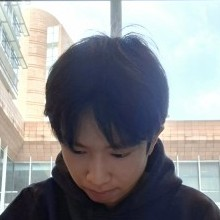
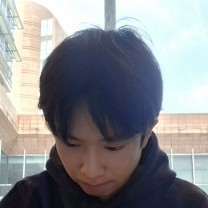
Center Damian's crew portrait crop

Changed region(s): [[0.0, 0.0, 1.0, 0.9808], [0.4904, 0.6923, 0.6058, 0.75], [0.5192, 0.2019, 0.5481, 0.2308]]

diff --git a/src/styles.css b/src/styles.css
@@ -1123,9 +1123,9 @@ body:has(.loading-intro) {
 .crew-card-portrait-wrap { position: absolute; inset: 0; display: grid; place-items: center; overflow: hidden; background: radial-gradient(ellipse at center, #18353a, #07131a 75%); }
 .crew-card-portrait-backdrop { position: absolute; inset: -1rem; inline-size: calc(100% + 2rem); block-size: calc(100% + 2rem); object-fit: cover; filter: blur(1.1rem) brightness(0.4) saturate(0.85); transform: scale(1.04); }
 .crew-card-portrait { position: absolute; z-index: 1; inset: 0; display: block; inline-size: 100%; block-size: 100%; object-fit: cover; object-position: center 35%; }
-.crew-portrait-zoom { position: relative; z-index: 1; display: block; inline-size: 100%; block-size: 100%; min-inline-size: 0; min-block-size: 0; overflow: hidden; padding: 0; border: 0; background: transparent; cursor: zoom-in; }
+.crew-portrait-zoom { position: absolute; z-index: 1; inset: 0; display: block; inline-size: auto; block-size: auto; min-inline-size: 0; min-block-size: 0; overflow: hidden; padding: 0; border: 0; background: transparent; cursor: zoom-in; }
 .crew-portrait-zoom:focus-visible { outline: 0.2rem solid var(--green); outline-offset: -0.3rem; }
-.crew-portrait-header-damian { object-fit: contain; object-position: center; }
+.crew-portrait-header-damian { inset-block: 0; inset-inline: auto; inset-inline-start: 50%; inline-size: auto; block-size: 100%; max-inline-size: 100%; aspect-ratio: 1; object-fit: cover; object-position: center; transform: translateX(-50%); }
 .crew-portrait-zoom-hint { position: absolute; inset-inline-end: 0.7rem; inset-block-end: 0.7rem; padding: 0.35rem 0.6rem; border: 0.0625rem solid rgba(69, 232, 93, 0.65); border-radius: 999rem; background: rgba(4, 10, 16, 0.86); color: var(--white); font-size: 0.75rem; font-weight: 700; opacity: 0; transform: translateY(0.25rem); transition: opacity 180ms ease, transform 180ms ease; }
 .crew-portrait-zoom:hover .crew-portrait-zoom-hint, .crew-portrait-zoom:focus-visible .crew-portrait-zoom-hint { opacity: 1; transform: translateY(0); }
 .crew-site-preview > img { display: block; inline-size: 100%; block-size: 100%; object-fit: cover; object-position: center 45%; opacity: 0.86; }
@@ -1360,6 +1360,7 @@ body:has(.loading-intro) {
 .crew-reveal-portrait-wrap { position: absolute; inset: 0; display: grid; place-items: center; overflow: hidden; background: radial-gradient(ellipse at center, #18353a, #07131a 75%); }
 .crew-reveal-portrait-backdrop { position: absolute; inset: -1rem; inline-size: calc(100% + 2rem); block-size: calc(100% + 2rem); object-fit: cover; object-position: 50% 25%; filter: blur(1.1rem) brightness(0.38) saturate(0.8); transform: scale(1.04); }
 .crew-reveal-portrait { position: absolute; z-index: 1; inset: 0; display: block; inline-size: 100%; block-size: 100%; object-fit: cover; object-position: 50% 35%; }
+.crew-reveal-portrait.crew-portrait-header-damian { inset-block: 0; inset-inline: auto; inset-inline-start: 50%; inline-size: auto; block-size: 100%; max-inline-size: 100%; aspect-ratio: 1; object-fit: cover; object-position: center; transform: translateX(-50%); }
 .crew-reveal-mascot { object-fit: contain; background: var(--ivory); }
 .crew-reveal-video-strip { display: grid; inline-size: 100%; grid-template-columns: repeat(3, minmax(0, 1fr)); gap: 0.35rem; padding: 0.5rem; }
 .crew-reveal-video-strip img { display: block; inline-size: 100%; aspect-ratio: 16 / 9; object-fit: cover; }
